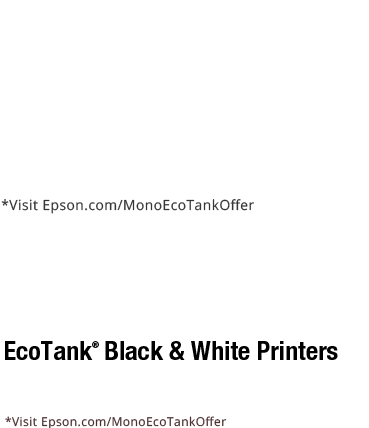
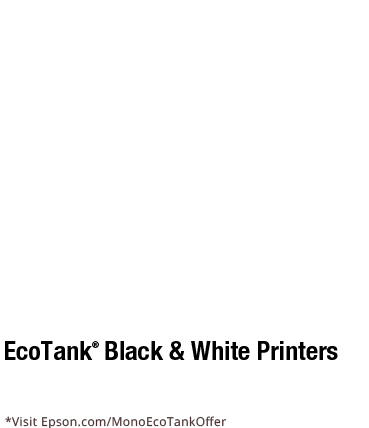
more updates

Changed region(s): [[0.0, 0.4556, 0.6856, 0.5164]]

diff --git a/demopage/mono/img/480X320_V2/index.html b/demopage/mono/img/480X320_V2/index.html
@@ -156,8 +156,8 @@
 
 		#text_02 {
 			position: absolute;
-			clip: rect(220px,320px,320px,0px);
-			top: -154px;
+			clip: rect(190px,320px,320px,0px);
+			top: -134px;
 			left: 150px;
 			opacity: 0;
 			-webkit-font-smoothing: antialiased;
